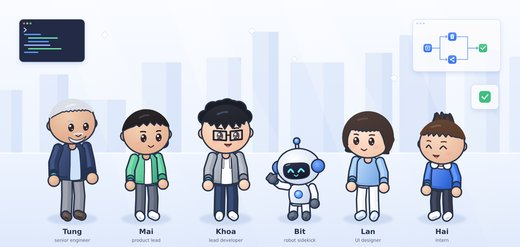
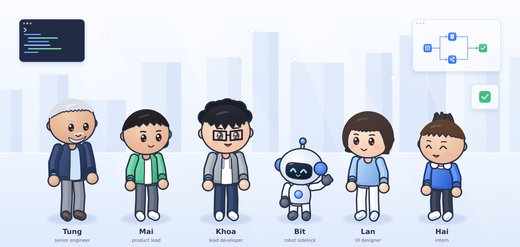
tech-illustration: match the renders and the skill's style count
- SKILL.md listed 22 experimental styles; there are 23.
- Bit's anchor said "round white hands" but every render, sheet and the
  README GIF draw dark-gray mitten hands. The anchor now says so, in the
  pack and in both sample clips where Bit appears (facts block refreshed).
- The README cast image showed Bit waving with its right hand, while the
  pack says Bit waves with its left and keeps the right for holding and
  passing. Re-rendered from the cast lineup with a left-hand wave.
- "Core rules this style overrides" now names each rule by its
  core-contract ID (C3, C5, C9, C15, C16), as core-contract.md asks.
- The README GIF held no end frame and ran 3.5 s, shorter than every other
  card; the final thumbs-up and green check now hold for 1.5 s.

Claude-Session: https://claude.ai/code/session_01Vq2xoKe6XgL5Ps3ZKmv8my

Changed region(s): [[0.4923, 0.5385, 0.6462, 0.8502]]

diff --git a/skills/directing-stickman-videos/references/styles/samples/tech-illustration.md b/skills/directing-stickman-videos/references/styles/samples/tech-illustration.md
@@ -60,7 +60,7 @@ Style: a soft 2.5D tech illustration brought to life, like a clean explainer ani
 
 Setting: a bright white studio space with a very pale blue floor and a soft radial glow behind the characters. A large white isometric block with softly rounded edges stands at the center; a smaller white block on the right holds a potted plant with round green leaves; two small white server towers with blue light strips stand at the back left. The same laptop is open on Khoa's lap; the code card with the orange dot floats upper left and the flow card upper right.
 
-Characters (exactly 2, no one else): Khoa: a young man, chibi, about two and a half heads tall. Big round head, light peach skin, messy short black hair with a soft fringe, thick black rectangular glasses, dark eyes. A light-gray zip hoodie worn open over a plain white t-shirt, with gray drawstrings and a hood behind his neck, navy jeans, plain white sneakers. Bit: a small white robot, about two heads tall, a round glossy white head with a dark navy face screen and two glowing cyan oval eyes, round blue ear pods, a short antenna with a blue bead, an egg-shaped white body with a small cyan chest light, short white arms with round white hands, short legs and dark gray feet. Every character has exactly two arms and two legs and small rounded hands with four fingers and a thumb (Bit has round mitten hands). Elbows and knees bend one way only and limbs never stretch. Every character wears one bright cyan band on the right wrist only.
+Characters (exactly 2, no one else): Khoa: a young man, chibi, about two and a half heads tall. Big round head, light peach skin, messy short black hair with a soft fringe, thick black rectangular glasses, dark eyes. A light-gray zip hoodie worn open over a plain white t-shirt, with gray drawstrings and a hood behind his neck, navy jeans, plain white sneakers. Bit: a small white robot, about two heads tall, a round glossy white head with a dark navy face screen and two glowing cyan oval eyes, round blue ear pods, a short antenna with a blue bead, an egg-shaped white body with a small cyan chest light, short white arms with round dark-gray mitten hands, short legs and dark gray feet. Every character has exactly two arms and two legs and small rounded hands with four fingers and a thumb (Bit has round mitten hands). Elbows and knees bend one way only and limbs never stretch. Every character wears one bright cyan band on the right wrist only.
 
 Props: one plain silver laptop with a blank lid, resting open on Khoa's lap; one small square blue chip with short silver pins, about the size of Bit's hand.
 
@@ -97,7 +97,7 @@ Style: a soft 2.5D tech illustration brought to life, like a clean explainer ani
 
 Setting: a bright white studio space with a very pale blue floor and a soft radial glow behind the characters. A large white isometric block with softly rounded edges stands at the center; a smaller white block on the right holds a potted plant with round green leaves; two small white server towers with blue light strips stand at the back left. The same moment continues: the laptop is open on Khoa's lap, the code card with the orange dot floats upper left and the flow card upper right.
 
-Characters (exactly 2, no one else): Khoa: a young man, chibi, about two and a half heads tall. Big round head, light peach skin, messy short black hair with a soft fringe, thick black rectangular glasses, dark eyes. A light-gray zip hoodie worn open over a plain white t-shirt, with gray drawstrings and a hood behind his neck, navy jeans, plain white sneakers. Bit: a small white robot, about two heads tall, a round glossy white head with a dark navy face screen and two glowing cyan oval eyes, round blue ear pods, a short antenna with a blue bead, an egg-shaped white body with a small cyan chest light, short white arms with round white hands, short legs and dark gray feet. Every character has exactly two arms and two legs and small rounded hands with four fingers and a thumb (Bit has round mitten hands). Elbows and knees bend one way only and limbs never stretch. Every character wears one bright cyan band on the right wrist only.
+Characters (exactly 2, no one else): Khoa: a young man, chibi, about two and a half heads tall. Big round head, light peach skin, messy short black hair with a soft fringe, thick black rectangular glasses, dark eyes. A light-gray zip hoodie worn open over a plain white t-shirt, with gray drawstrings and a hood behind his neck, navy jeans, plain white sneakers. Bit: a small white robot, about two heads tall, a round glossy white head with a dark navy face screen and two glowing cyan oval eyes, round blue ear pods, a short antenna with a blue bead, an egg-shaped white body with a small cyan chest light, short white arms with round dark-gray mitten hands, short legs and dark gray feet. Every character has exactly two arms and two legs and small rounded hands with four fingers and a thumb (Bit has round mitten hands). Elbows and knees bend one way only and limbs never stretch. Every character wears one bright cyan band on the right wrist only.
 
 Props: one plain silver laptop with a blank lid, resting open on Khoa's lap; one small square blue chip with short silver pins.
 

diff --git a/skills/directing-stickman-videos/references/styles/tech-illustration.md b/skills/directing-stickman-videos/references/styles/tech-illustration.md
@@ -66,7 +66,7 @@ Six original characters, a small software team and its robot. They differ first 
 | Character | Role | Anchor |
 |---|---|---|
 | Khoa | lead developer | Khoa: a young man, chibi, about two and a half heads tall. Big round head, light peach skin, messy short black hair with a soft fringe, thick black rectangular glasses, dark eyes. A light-gray zip hoodie worn open over a plain white t-shirt, with gray drawstrings and a hood behind his neck, navy jeans, plain white sneakers. |
-| Bit | robot sidekick | Bit: a small white robot, about two heads tall, a round glossy white head with a dark navy face screen and two glowing cyan oval eyes, round blue ear pods, a short antenna with a blue bead, an egg-shaped white body with a small cyan chest light, short white arms with round white hands, short legs and dark gray feet. |
+| Bit | robot sidekick | Bit: a small white robot, about two heads tall, a round glossy white head with a dark navy face screen and two glowing cyan oval eyes, round blue ear pods, a short antenna with a blue bead, an egg-shaped white body with a small cyan chest light, short white arms with round dark-gray mitten hands, short legs and dark gray feet. |
 | Lan | UI designer | Lan: a young woman, chibi, about two and a half heads tall. Big round head, light peach skin, a dark-brown chin-length bob with a straight fringe, dark eyes. A sky-blue sweater, white trousers, pale-blue sneakers. |
 | Mai | product lead | Mai: a young woman, chibi, about two and a half heads tall. Big round head, warm light-tan skin, a black high ponytail tied with a mint band, dark eyes. A mint-green jacket worn open over a white t-shirt, gray trousers, white sneakers. |
 | Tung | senior engineer | Tung: an older man, chibi, the tallest of the team, about two and three-quarter heads tall. Big round head, warm tan skin, short silver-gray hair, a short neat silver beard, dark eyes. A navy cardigan over a pale-blue shirt, gray trousers, brown shoes. |
@@ -87,12 +87,17 @@ Anchor rules:
 
 ## 4. Core rules this style overrides
 
+Each entry names the rule by its ID in `core-contract.md`. The first two rows change the Style 1/2 catalog look, which is not a core rule.
+
 | Core rule | Override | Reason |
 |---|---|---|
-| Stick figures with plain or line faces | Chibi characters with outlined, softly shaded rounded bodies and simple dot-eye faces | The tech-explainer genre is built from these characters |
-| Piano and ambient score | The frozen soft synth-pluck and marimba score below | Bright product-explainer tone |
-| One hero figure | A team of six named characters, at most two in a clip in the sample | Team and helper stories |
-| Body bans | Raised hands go out beside the head, never in front of the face; a hand never reaches the forehead (section 7) | Big heads and short arms hide hands and faces |
+| Catalog look (Styles 1–2): stick figures with plain or line faces | Chibi characters with outlined, softly shaded rounded bodies and simple dot-eye faces | The tech-explainer genre is built from these characters |
+| Catalog look (Styles 1–2): one hero figure | A team of six named characters, each with a cast card; at most two in a clip in the sample (C12 still applies) | Team and helper stories |
+| C3 (instruments only) | The frozen soft synth-pluck and marimba score in section 6 instead of piano and synth; the continuity sentence is kept | Bright product-explainer tone |
+| C5 (adds limits) | Raised hands go out beside the head, never in front of the face; a hand never reaches the forehead; Bit holds and passes with its right hand only (section 7) | Big heads and short arms hide hands and faces |
+| C9 (`none` → `post-overlay`) | Cards carry shapes and icons only; any titles or labels are added in post (sections 5 and 8) | Explainers need labels, and the model cannot draw readable text |
+| C15 (motion cadence) | `smooth`, with clear holds | Small eased moves suit the clean product look |
+| C16 (bans a move) | No orbit | An orbit turns the big heads past the shoulders and breaks the isometric angle |
 
 ## 5. Text, motion, camera
 

diff --git a/skills/directing-stickman-videos/SKILL.md b/skills/directing-stickman-videos/SKILL.md
@@ -23,7 +23,7 @@ Require these before planning:
     - `Style 2B (Cinematic Story)`: full-color narrative environments, cinematic lighting & depth
   - `Style 3 (Prehistoric Hand-Drawn / Dark Comedy)`: expressive white filled heads, black stick limbs, animal-hide costumes and earthy prehistoric settings; story-specific casting
   - `Style 4 (Cozy Storytelling / 治愈故事风)`: expressive minimalist white-filled characters with dark stick limbs in full-color 2D cartoon environments; varied story locations and cinematic shot changes
-  - Experimental styles (`gated`), offered only when the user asks for an experimental style or names one by slug: the 22 slug styles in the "Experimental styles" table of `references/style-catalog.md` (for example `dong-ho`, `chu-tieu`, `watercolor-storybook`). Say the style is `gated` when offering it.
+  - Experimental styles (`gated`), offered only when the user asks for an experimental style or names one by slug: the 23 slug styles in the "Experimental styles" table of `references/style-catalog.md` (for example `dong-ho`, `chu-tieu`, `watercolor-storybook`). Say the style is `gated` when offering it.
 
 If aspect ratio or visual style is missing, ask for all missing items in one concise message and stop. If duration is omitted, default to 60 seconds (6 clips). If a user provides a duration not divisible by 10, round to the nearest 10-second multiple. If a user specifies only light or dark theme, default to Style 1. Never select an aspect ratio or style silently. Do not re-ask choices already supplied.
 

diff --git a/skills/directing-stickman-videos/references/styles/samples/tech-illustration.facts.md b/skills/directing-stickman-videos/references/styles/samples/tech-illustration.facts.md
@@ -1,9 +1,9 @@
 <!-- package_lint facts: generated, do not edit -->
-- package: `tech-illustration.md` sha256 35471bf71e012de2
+- package: `tech-illustration.md` sha256 94c03d224584ff4e
 - checked: 2026-10-22
 - storyboard rows: none
 - prompts: 3
 - hand_ledger: PASS
 - red: 0
 - yellow: 0
-<!-- package_lint facts end sha256=c70448715060719c846170d38be17927efdf0377799b01aa666223cb71381a69 -->
+<!-- package_lint facts end sha256=e6a632aaf19422a20f1864fd3f45519e496fe474f3b3329f1e86e4e5ede9d4d8 -->
